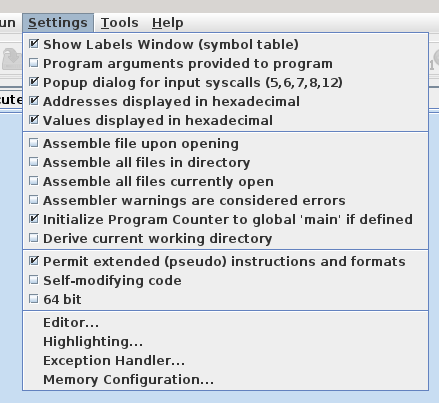
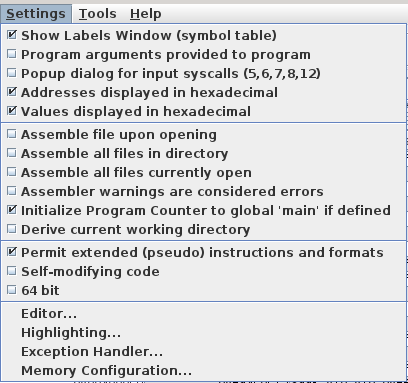
lab 2

diff --git a/FAQ.md b/FAQ.md
@@ -365,6 +365,128 @@ Where `PATH-TO-RARS-JAR` is the path to the RARS jar archive you installed and `
 
 If you are using a different command line interface read its documentation.
 
+# The RV32IM ISA and its ILP32 ABI
+
+## How to write functions and call them in assembly code?
+
+In assembly language, just like in most programming languages, structuring the source code is essential.
+Functions are the basis of code structuring; they provide modularity, encapsulation of implementation details and code reuse.
+A function optionally takes input parameters, returns output results, uses local variables, calls other functions.
+At the end of the execution of a function the caller program resumes with the instruction that follows the function call.
+All these aspects are apparently simple in high level programming languages.
+Example of a factorial function in the C language:
+
+```c
+// compute and return n! = 1*2*3*...*n
+unsigned factorial(unsigned n) {
+  unsigned result;
+
+  if(n < 3) result = n;
+  else result = factorial(n - 1) * n;
+  return result;
+}
+```
+
+Example of call of the factorial function from another function:
+
+```c
+...
+var = factorial(5);
+...
+```
+
+In assembly language things are more complicated because all the low level details that are normally handled automatically by the compiler must be handled manually.
+We must decide how the input parameters and output results are passed between the calling program (the _caller_) and the called function (the _callee_), where the local variables of the function are stored, how to return to the caller at the end of the function and how other functions can be called from the function itself.
+Of course, all this must be consistent between the caller and the callee: if the caller passes an input parameter in register `x2` but the callee expects it to be passed in register `x3`, things will not work as expected.
+As caller and callee functions can be written by different programmers, or compiled from different source files, we need a global convention; this is what the "Application Binary Interface" (ABI) provides.
+See [What is the ILP32 ABI for the RV32IM ISA?](#what-is-the-ilp32-abi-for-the-rv32im-isa) to learn more about the "Integer, Long and Pointers 32 bits" (ILP32) ABI for the RV32IM "Instruction Set Architecture" (ISA).
+
+## What is the ILP32 ABI for the RV32IM ISA?
+
+The "Integer, Long and Pointers 32 bits" (ILP32) ABI for the RV32IM "Instruction Set Architecture" (ISA) is named so because it targets 32 bits architectures.
+It contains, among other things, conventions about the use of the general purpose registers, the memory and function calls.
+
+The RV32IM general purpose registers are named `x0` to `x31`.
+The ILP32 ABI gives them a second meaningful name corresponding to their given role in the ABI conventions:
+
+| Register  | Name     | Description                          | Saved  |
+| :---      | :---     | :---                                 | :---   |
+| `x0`      | `zero`   | Constant 0                           | -      |
+| `x1`      | `ra`     | Return address                       | No     |
+| `x2`      | `sp`     | Stack pointer                        | No     |
+| `x3`      | `gp`     | Global pointer (don't touch)         | Yes    |
+| `x4`      | `tp`     | Thread pointer (don't touch)         | Yes    |
+| `x5-x7`   | `t0-t2`  | Temporary registers                  | No     |
+| `x8`      | `s0/fp`  | Saved register or frame pointer      | Yes    |
+| `x9`      | `s1`     | Saved register                       | Yes    |
+| `x10-x11` | `a0-a1`  | Function arguments and return values | No     |
+| `x12-x17` | `a2-a7`  | Function arguments                   | No     |
+| `x18-x27` | `s2-s11` | Saved registers                      | Yes    |
+| `x28-x31` | `t3-t6`  | Temporary registers                  | No     |
+
+In your assembly coding prefer the meaningful names.
+Ignore and don't use the `gp` (`x3`) and `tp` (`x4`) registers; we don't have time to discuss their role in this course.
+The conventions about these registers and function calls are the following:
+
+- The input parameters of functions are passed in registers `a0` to `a7`; if the function has only one 32 bits input parameter it is passed in `a0`, if it has two 32 bits input parameters they are passed in `a0` and `a1`, etc.
+- The output results of functions are passed in registers `a0` and `a1`.
+- Register `ra` is used to store the return address of functions:
+  * Before jumping at the first instruction of the callee the caller must store the `pc+4` return address in register `ra` (where `pc` is the address of the jump instruction itself).
+    In order to do this the caller can call the callee with the `jalr ra,...` or `jal ra,...` basic instructions, or the equivalent `call label` pseudo instruction.
+  * At the end the callee shall jump back at the address it received in register `ra`.
+    This can be achieved with, for instance, the `jalr zero,ra,0` basic instruction, or the equivalent `ret` pseudo instruction.
+- Registers `sp`, `gp`, `tp` and `s0-s11` are the _saved_ registers: their content must absolutely be preserved by the callee because they can be in use by the caller at the time of the function call.
+  If the callee needs to use these registers it **must** save them _somewhere_ before modifying their content, and it **must** restore the original content before returning to the caller.
+- Registers `ra`, `t0-t6` and `a0-a7` are the _non-saved_ registers: they may be freely modified by the callee because the caller does not expect their content to be preserved across function calls.
+  If the caller has valuable data stored in these registers it **must** save them _somewhere_ before calling any function.
+
+These conventions are not sufficient to solve all potential issues.
+Where is the _somewhere_ where the caller or the callee are supposed to save the content of registers when they need to do so?
+If the callee uses a lot of local variables, more than the number of non-saved registers, where will it store them?
+If the callee must itself call another function, it must pass it the return address in register `ra`, overriding its own return address; where shall it save its own return address?
+For the answers to all these questions see [What are the stack, the stack frames and the stack pointer?](#what-are-the-stack-the-stack-frames-and-the-stack-pointer).
+
+## What are the stack, the stack frames and the stack pointer?
+
+The stack is a region of the memory where functions can store information when they cannot do it with the available registers.
+As shown in the figure below the stack grows towards low addresses, shrinks towards high addresses and its lowest address is always in the `sp` register.
+
+![The stack](doc/data/stack.png)
+
+When a function needs some storage space, say `N` bytes, it allocates a _stack frame_ on the stack by subtracting `N` from register `sp`.
+Once this is done it can store data in this stack frame up to the allocated `N` bytes.
+A recommended practice is to do this at the very beginning of the function, before any other action, and then to save the `ra` register in the stack frame, plus all saved registers that the function will modify.
+Saving `ra` is recommended even if, in the current version, the function does not modify it, because the code could be updated at a later stage and function calls could be added.
+The new value of `sp` is used as base address for all these store operations.
+During execution the function can also use its stack frame to store extra data, like local variables.
+At the end of its execution, before returning, the function restores `ra` from the stack frame, plus all saved registers that have been modified.
+Then, it deallocates the stack frame and restores register `sp` by adding `N` to `sp`.
+
+Note that, among all saved registers `sp` is the only one that is not preserved by storing it in the stack frame.
+It is preserved by adding to it the same `N` value that was subtracted at the beginning.
+
+Example of RV32IM assembly code for the `factorial` C function shown in [How to write functions and call them in assembly code?](#how-to-write-functions-and-call-them-in-assembly-code):
+
+```riscv
+# compute and return n! = 1*2*3*...*n
+# n passed in a0, result returned in a0
+factorial:
+  addi sp,sp,-8      # allocate 8 bytes stack frame (2 words)
+  sw   ra,0(sp)      # save ra in stack frame
+  sw   s0,4(sp)      # save s0 in stack frame
+  addi s0,zero,3     # s0 <- 3
+  bltu a0,s0,end     # go to end if a0 (n) unsigned-less than s0 (3)
+  add  s0,zero,a0    # save a0 (n) in s0
+  addi a0,a0,-1      # a0 <- a0-1
+  jal  ra,factorial  # call factorial, a0 <- factorial(n-1)
+  mul  a0,a0,s0      # a0 <- a0*s0 = factorial(n-1)*n
+end:
+  lw   s0,4(sp)      # restore s0 from stack frame
+  lw   ra,0(sp)      # restore ra from stack frame
+  addi sp,sp,8       # deallocate stack frame, restore sp
+  jalr zero,ra,0     # return to caller, the result is in a0
+```
+
 [Git for Windows]: https://gitforwindows.org/
 [MacPorts]: https://www.macports.org/
 [Homebrew]: https://brew.sh/

diff --git a/labs/2-syscall-io/README.md b/labs/2-syscall-io/README.md
@@ -1,0 +1,159 @@
+<!-- MASTER-ONLY: DO NOT MODIFY THIS FILE
+
+Copyright © Telecom Paris
+Copyright © Renaud Pacalet (renaud.pacalet@telecom-paris.fr)
+
+This file must be used under the terms of the CeCILL. This source
+file is licensed as described in the file COPYING, which you should
+have received as part of this distribution. The terms are also
+available at:
+https://cecill.info/licences/Licence_CeCILL_V2.1-en.html
+-->
+
+The ILP32 ABI, the 'io' application, syscall-based IO
+
+---
+
+[TOC]
+
+---
+
+As for any lab do not forget to write a report in [Markdown syntax] in the `REPORT.md` file.
+Remember that the written reports and source code are personal work (plagiarism is not accepted).
+Do all assignments yourself and try to understand each of them.
+You can of course discuss with others, exchange ideas, ask others for help, help others...
+It is even warmly recommended, but at the end your report and source code must be your personal work.
+They are due the day **before** the written exam at 23:59.
+After this deadline the git repository will become read-only and there will be no possibility any more to add or modify something.
+
+The following assumes a student named Mary Shelley.
+
+## Set-up
+
+1. Open a terminal, change the working directory to the `ca` clone, check the current status:
+
+    ```bash
+    $ cd ~/Documents/ca
+    $ git status
+    On branch shelley
+    Your branch is up to date with 'origin/shelley'.
+    
+    nothing to commit, working tree clean
+    ```
+
+1. If the current branch is not your personal branch, switch to your personal branch and check again the current status:
+
+    ```bash
+    $ git checkout shelley
+    $ git status
+    ...
+    ```
+
+1. If your branch is not up to date with `origin/shelley` or there is something to commit or the working tree is not clean, add, commit and/or pull until everything is in order.
+
+1. Pull, merge with `origin/master`, change the working directory to this lab's directory and list the directory's content:
+
+    ```bash
+    $ git pull
+    $ git merge origin/master
+    $ cd labs/2-syscall-io
+    $ ls
+    README.md
+    REPORT.md
+    io.s
+    ```
+
+   `README.md` is the file you are currently looking at, `REPORT.md` is the empty file in which you will write your lab report and the `io.s` file is the RISC-V source code of an application.
+
+## Introduction
+
+In this lab we will discover what an "Application Binary Interface" (ABI) is, why it is needed, understand some aspects of the "Integer, Long and Pointers 32 bits" (ILP32) ABI, and use it for our own coding.
+We will work with software functions to read data from the keyboard and to print data to the console.
+We will simulate them using the RARS simulator, debug them if needed, and observe the internals of the simulated RISC-V processor during execution.
+
+There are usually 3 ways to launch an action with RARS:
+- Select an entry in a menu.
+- Click on an icon.
+- Use a keyboard shortcut (shortcuts are indicated near the menu entry with the same effect).
+
+In the following directions we use the menu entries method with the `[M -> E]` syntax to designate the `E` entry of the `M` menu; feel free to use the method you prefer.
+
+## A note on the way characters and text strings are represented
+
+In the computer system that RARS emulates characters are encoded as numeric values between 0 and 127: the [ASCII code].
+Even if 7 bits would be enough, when stored in memory a character occupies one full byte with a 0 as most significant bit.
+The 32 first ASCII codes (0 to 31) and the last (127) correspond to control characters; all other codes correspond to printable characters.
+To see the correspondence between characters and ASCII codes, switch to your opened terminal and type `man ascii` (use up/down arrows or page up/page down keys to navigate, type `q` when done).
+
+Text strings are sequences of characters and they are encoded as sequences of numeric values between 0 and 127.
+Functions and system calls that process a text string stored in memory frequently need to know not only where the string starts (the memory address of its first byte) but also where it stops.
+This can be done in different ways:
+- by providing also the length,
+- by providing also the memory address of the last byte,
+- by using a special ASCII code to terminate the string.
+
+When a special ASCII code is used to signal the end of a string it is usually `NUL` (ASCII code 0).
+The `PrintString` system call that we will use later to print text strings expects a `NUL` at the end of the string.
+
+## Launch RARS, settings, help
+
+Launch RARS (just type `rars` in your terminal), open the `Settings` menu and configure it according the following picture:
+
+![RARS settings](../../doc/data/rars-settings.png)
+
+Open the help window (`[Help -> Help]`) and select its `RISCV` tab.
+In the `RISCV` tab we will use the `Basic instructions`, `Extended (pseudo) instructions`, `Directives` and `Syscalls` sub-tabs.
+Ignore the other sub-tabs, we don't need them for now.
+In this lab, to simplify the coding, we will use pseudo instructions, that is, instructions that don't really exist; the assembler will convert them in one or more real instructions with the same effect.
+
+## Assignments
+
+The application that we will study in this lab is structured in separate functions.
+In order to understand how to write functions in assembly code, the conventions to use, and the role of the _stack_ in all this, first read the following sections of the [FAQ]:
+
+- [How to write functions and call them in assembly code?]
+- [What is the ILP32 ABI for the RV32IM ISA?]
+- [What are the stack, the stack frames and the stack pointer?]
+
+Our application is a loop that:
+
+1. Print a message asking to enter a character.
+1. Read a character from the keyboard.
+1. Print another message followed by the entered character.
+1. Print a good bye message and exit if the entered character was a `Q`.
+1. Else, go back to 1.
+
+In this first version we will use the RARS syscalls to read and print characters and to print messages.
+
+1. Open the `io.s` file with the RARS editor, study the code and try to understand it.
+   In order to understand what the various syscalls are doing and how they are called, you will need the `Syscalls` tab of the help window of RARS.
+
+1. Observe how the various functions are written, how they are called, how their input parameters and output results are passed between callers and callees, how the return addresses are handled, how the stack frames are managed and what they are used for.
+   Does the code comply with the ILP32 ABI?
+
+1. Assemble `io.s` and simulate.
+   After entering (and displaying) several characters reset the simulation (`[Run -> Reset]`) and start executing step-by-step (`[Run -> Step]`).
+   After stepping over the `ReadChar` syscall do not forget to enter a character.
+   Before each step, try to understand what instruction will be executed and what its effect should be.
+   Cross-check your guessing by looking at the content of the registers (including the Program Counter - PC) before and after the step.
+
+1. Edit `io.s` and modify the code to add a `puti` function that prints the integer in register `a0`.
+   Also add a `print_ascii_message` in the `data` segment with value `\nThe ASCII code of the character you entered is: `.
+   Modify the `main` function to print `print_ascii_message` instead of `print_char_message`, and to use `puti` instead of `putc` to print the ASCII code of the entered character instead of the character itself.
+   Test your modification.
+
+1. Use your application to find the ASCII codes of characters `#`, `u` and `$`.
+
+## Report, add, commit, push
+
+Once you will have written your report do not forget to add, commit and push it in your personal branch.
+Add also the `io.s` file.
+
+[ASCII code]: https://en.wikipedia.org/wiki/ASCII
+[Markdown syntax]: https://www.markdowntutorial.com/
+[FAQ]: ../../FAQ.md
+[How to write functions and call them in assembly code?]: ../../FAQ.md#how-to-write-functions-and-call-them-in-assembly-code
+[What is the ILP32 ABI for the RV32IM ISA?]: ../../FAQ.md#what-is-the-ilp32-abi-for-the-rv32im-isa
+[What are the stack, the stack frames and the stack pointer?]: ../../FAQ.md#what-are-the-stack-the-stack-frames-and-the-stack-pointer
+
+<!-- vim: set tabstop=4 softtabstop=4 shiftwidth=4 expandtab textwidth=0: -->
